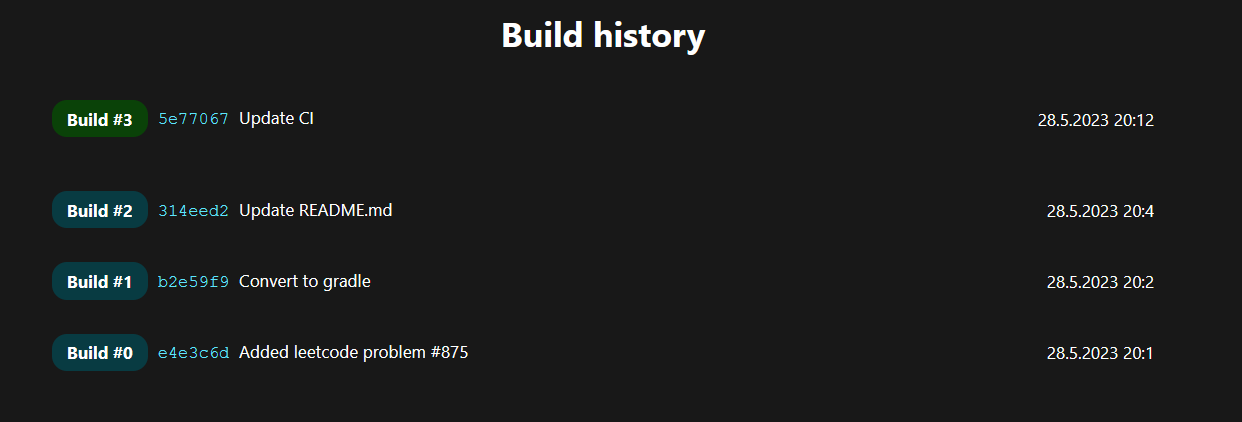
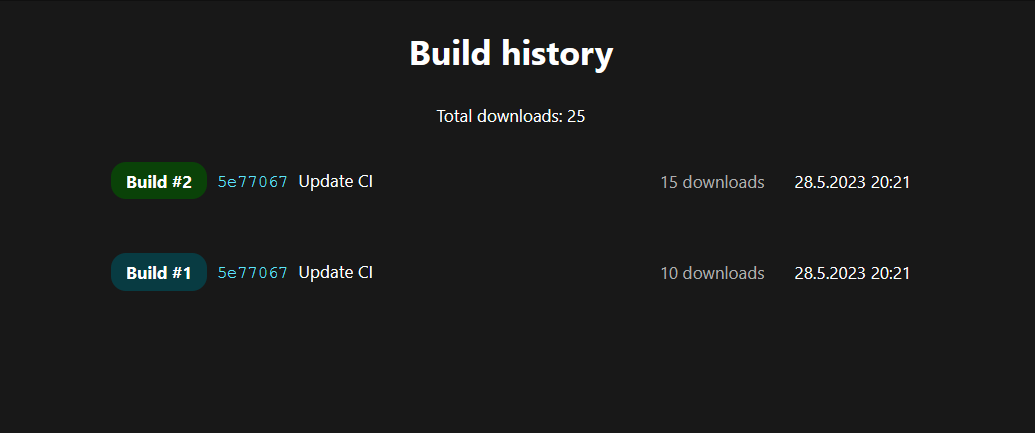
Fix compile errors

diff --git a/buildify-web/src/components/History.vue b/buildify-web/src/components/History.vue
@@ -27,8 +27,8 @@ export default {
   methods: {
       totalDownloads: function(){
         return this.builds
-                .map(build => build.Downloads)
-                .reduce((count, val) => count + val)
+                .map(build => build['Downloads'])
+                .reduce((count, val) => count + val, 0)
       },
   }
 }
@@ -45,13 +45,13 @@ export default {
         <Build v-if="maxAmount > i" 
                 :baseLink="link"
                 :is-latest="i == 0"
-                :id="build.Id"
-                :time="build.Time" 
-                :hash="build.Hash" 
-                :message="build.Message"
-                :downloads="build.Downloads"
-                :file-name="build.FileName"
-                :download-link="build.DownloadLink"/>
+                :id="build['Id']"
+                :time="build['Time']" 
+                :hash="build['Hash']" 
+                :message="build['Message']"
+                :downloads="build['Downloads']"
+                :file-name="build['FileName']"
+                :download-link="build['DownloadLink']"/>
       </template>
     </template>
 

diff --git a/buildify-web/src/components/Build.vue b/buildify-web/src/components/Build.vue
@@ -25,7 +25,6 @@ export default {
   },
   methods: {
     download(){
-        console.log("Download link: " + this.fullDownloadLink)
         fetch("http://" + this.fullDownloadLink)
         .then(response => response.blob())
         .then(blob => {

diff --git a/buildify-web/README.md b/buildify-web/README.md
@@ -8,18 +8,21 @@ You can copy this and modify for your needs.
 
 ```sh
 npm install
+npm install -g serve
 ```
 
 ### Compile and Hot-Reload for Development
 
 ```sh
-npm run dev -- --port 5173
+npm run dev
 ```
 
 ### Type-Check, Compile and Minify for Production
 
 ```sh
 npm run build
+cd dist
+serve -l [PORT]
 ```
 
 ### Preview
